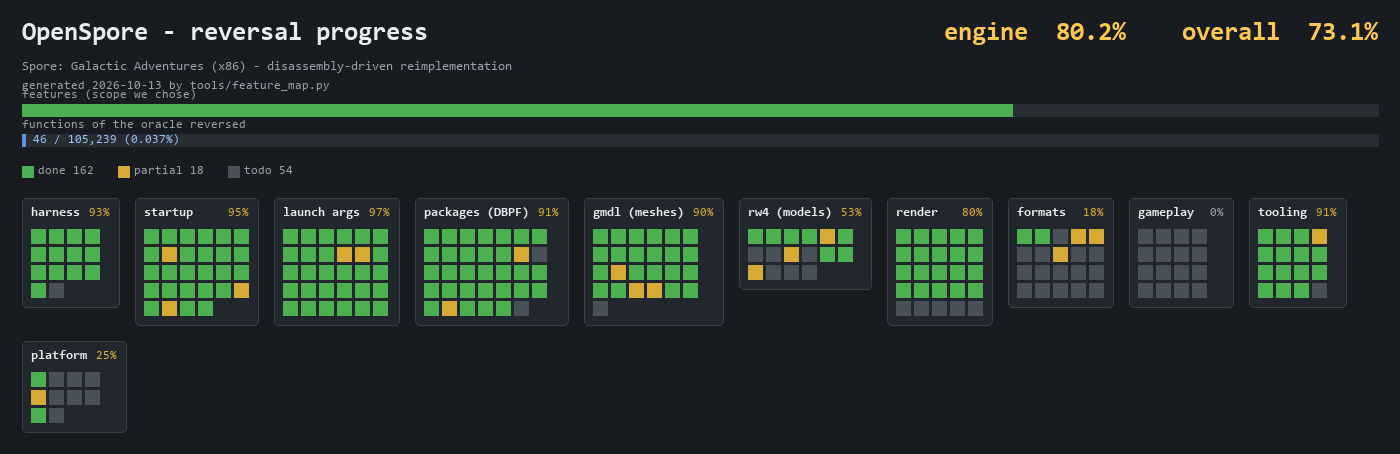
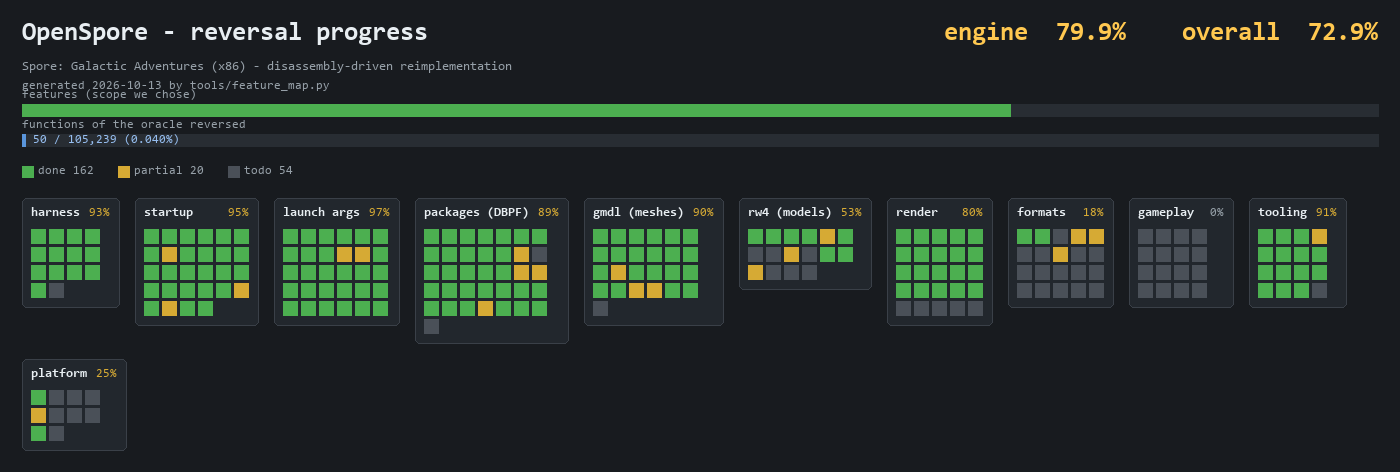
Content loading: resource manager + trigger configs, and resolve the group ids to real names
Found the layer above DBPF: the resource-manager getter 0x8de4b0 (global 0x1667aa0), and two
query entry points 0x686450 / 0x847780 that take a {group, type} descriptor. The game's configs
are 'trigger' resources (type 0x024a0e52), referenced at exactly three sites (0x5eb20e, 0x6a9fb0,
0x7cc3ed).

Decisive cross-check: resolving the group ids with FNV-1-lower over reg_file.txt gives REAL names -
0x658b0ab2 = 'properties', 0x9a06678c = 'ConfigManager', 0xd6396913 = 'SporeAppStates'. So run
loads the state list from a trigger resource of group 'SporeAppStates' (at 0xf48505), and the
config path loads 'properties' and 'ConfigManager'. That answers where the game reads its
config/state text.

New: analysis/content-loading.md; +4 named functions (50); feature map gains resource-manager and
content-loading rows; startup.md notes the SporeAppStates load.

diff --git a/analysis/content-loading.md b/analysis/content-loading.md
@@ -1,0 +1,64 @@
+# Content loading — how the original reads its resources
+
+Authority: disassembly of `refs/bins/ReleaseGA/SporeApp.exe.unpacked.exe`. This is the layer above
+DBPF/RefPack: how the *game* asks for a resource by (type, group, instance) and gets bytes.
+
+## The resource manager
+
+- **`0x008de4b0`** returns the resource manager singleton from **global `0x1667aa0`** (a one-line
+  getter; `0x008de4c0` is its setter). This is the object that owns the open packages and resolves
+  resource ids to data.
+- Resource queries go through the manager's vtable. `0x00847780` is the query used at a trigger
+  site: it calls `0x8de4b0`, then `[mgr]->vtable+0x58` with the descriptor, then (on success) reads
+  the resource and builds an object.
+
+## The resource descriptor is `{group, type, ...}`
+
+Sites build a small struct on the stack and pass it to a query:
+
+```
+5eb206:  mov [esp+0x28], 0x461227d      ; group
+5eb20e:  mov [esp+0x24], 0x24a0e52      ; type = trigger
+5eb21e:  call 0x686450                  ; query -> index, or 0xffffffff
+```
+
+```
+6a9fa8:  mov [esp+0x28], 0x658b0ab2     ; group
+6a9fb0:  mov [esp+0x2c], 0x24a0e52      ; type = trigger
+6a9fbc:  call 0x847780                  ; load
+```
+
+## `trigger` = type id `0x024A0E52`
+
+`upstream/SporeMaster3/data/reg_type.txt` lists `trigger 0x24a0e52`, and our own inventory found
+`trigger` resources in the Czech NameGeneration package under `0x024A0E52`. The game references that
+id as an immediate in exactly **three** places (via `tools/find_imm.py 0x024A0E52`):
+
+| site | function | what it does |
+|---|---|---|
+| `0x005eb20e` | ~`0x5eb1de` | builds `{group 0x461227d, trigger}` and calls `0x686450` (query -> index or -1) |
+| `0x006a9fb0` | ~`0x6a9f50` | builds `{group 0x658b0ab2, trigger}` and calls `0x847780` (load) |
+| `0x007cc3ed` | ~`0x7cc3d9` | stores `{0x9a06678c, trigger}` in a class at `[this+0x14]/[this+0x18]` and calls `0x7cc1c0` |
+
+So the game's scripts/configs are `trigger` resources, looked up by a **group id** (a hash). Resolving
+those group ids against our naming registry (`reg_file.txt`, 125,272 names, FNV-1-lower) gives real
+names — this is a decisive cross-check between the disassembly and the shipped data:
+
+| group id | resolved name | used at |
+|---|---|---|
+| `0x658b0ab2` | **`properties`** | the trigger load at `0x6a9fb0` — the game's **properties** config |
+| `0x9a06678c` | **`ConfigManager`** | `0x7cc3ed` — the **ConfigManager** |
+| `0xd6396913` | **`SporeAppStates`** | `run` at `0xf48505` (`[app+0x34]->vtable+0x1c`) — the app's **state list** |
+| `0x461227d` | (not in the registry) | `0x5eb20e` — another config group |
+
+So the startup path loads `SporeAppStates` (the state machine's states), and the config path loads
+`properties` and `ConfigManager` — all as `trigger` resources. That answers "where the game reads its
+config/state text": **through the resource manager (`0x8de4b0`), by `trigger` type + group id.**
+
+## Status
+
+- **Reversed:** the resource-manager getter (`0x8de4b0`/`0x1667aa0`), two query entry points
+  (`0x686450`, `0x847780`), the `{group, type}` descriptor shape, and that the game loads `trigger`
+  configs from three sites.
+- **Not yet reversed:** the query functions' internals, the group-name resolution for those three
+  sites, and where the loaded trigger text is parsed into game state.

diff --git a/analysis/functions.md b/analysis/functions.md
@@ -6,7 +6,7 @@
 > (functions we have actually reversed/named).
 
 **105,239** candidate function starts in `.text` (upper bound; see the tool's note) ·
-**46** functions reversed/named · **0.037%** coverage.
+**50** functions reversed/named · **0.040%** coverage.
 
 This is deliberately a HARD number, and it is small. It is not in tension with the feature
 map's high engine figure: the feature map measures the scope we chose (boot chain + asset
@@ -17,9 +17,9 @@ are barely touched. Both are true; together they are the honest picture.
 
 | area | count |
 |---|---|
-| startup | 23 |
+| startup | 24 |
+| packages | 12 |
 | rw4 | 11 |
-| packages | 9 |
 | core | 2 |
 | render | 1 |
 
@@ -32,7 +32,9 @@ are barely touched. Both are true; together they are the honest picture.
 | `0x0067dd20` | GetMgr8c4 | rw4 | getter for the model manager (0x15fd8c4) |
 | `0x0067dd30` | GetMgr8c8 | rw4 | getter for the second manager (0x15fd8c8) |
 | `0x0067df40` | SetMgr8c4 | rw4 | setter for the model manager; called from 0x7a71cb / 0x7a7efa |
+| `0x00686450` | ResourceFind | packages | resource query returning an index or 0xffffffff |
 | `0x00687bd0` | SetFsMode | startup | dev/ship dirs mode setup, called from AppRun |
+| `0x006a9f50` | LoadPropertiesConfig | startup | loads {group 'properties', trigger} at 0x6a9fb0 |
 | `0x006ad090` | TypeRegister | rw4 | hash-map insert keyed by type id |
 | `0x006b4eb0` | EarlyInit | startup | first call in AppRun; false -> bail |
 | `0x006c233d` | Rw4WriterCaller | rw4 | writer caller; pushes sentinel 0xcafed00d |
@@ -50,6 +52,7 @@ are barely touched. Both are true; together they are the honest picture.
 | `0x007e8a00` | CreateAppMode | startup | alloc 0x1f0 bytes, ctor 0x7e76e0; the app-mode/state host |
 | `0x007e93d0` | AppModeSetupPlugins | startup | vtable+0x18; -noPlugins/-safe gate -> 0x7e8810 |
 | `0x007eaae0` | AppModeShaderConfig | startup | vtable+0x20; -dumpShaders/-pix/-noScripts/-noEffectScripts... |
+| `0x00847780` | ResourceLoad | packages | load a resource via [mgr]->vtable+0x58 with a {group,type} descriptor |
 | `0x008482f0` | MainLoop | startup | THE main loop (window vtable+0x84): PeekMessageW -> WM_QUIT -> dispatch -> TranslateMessage -> DispatchMessageW; called from run 0xf48405 |
 | `0x00849b20` | WindowCtor | startup | ctor of the window/input class (vtable 0x141cc10) |
 | `0x00849bf0` | WindowCreate | startup | RegisterClass/CreateWindowEx; HWND at [obj+0x70] |
@@ -60,6 +63,7 @@ are barely touched. Both are true; together they are the honest picture.
 | `0x008d90b0` | DbpfValidateHeader | packages | DBPF header validator: magic/version/count/index-offset clauses |
 | `0x008d9a90` | DbpfLoadIndex | packages | index loader (vtable+0x90); kind mask parse |
 | `0x008da6f0` | DbpfResourceAccessor | packages | resource accessor (vtable+0x34) |
+| `0x008de4b0` | GetResourceManager | packages | returns the resource-manager singleton from global 0x1667aa0 |
 | `0x0092b570` | ArgLookup | startup | launch-key lookup helper (this,name,..) -> index or -1; skips a leading -/; used by 76 sites |
 | `0x0092c4e0` | RefPackReadBE | packages | big-endian size reader |
 | `0x0092c5b0` | RefPackLoop | packages | the RefPack command/copy loop |

diff --git a/analysis/features.md b/analysis/features.md
@@ -5,7 +5,7 @@
 > AND the picture `analysis/shots/reverse_map.png`. Both come from the same source, so they
 > cannot drift apart.
 
-**Engine reversal: 80.2%** | **Overall: 73.1%** | done 162 / partial 18 / todo 54 (234 features)
+**Engine reversal: 79.9%** | **Overall: 72.9%** | done 162 / partial 20 / todo 54 (236 features)
 
 **Legend**
 
@@ -24,7 +24,7 @@ The picture (`analysis/shots/reverse_map.png`) shows the same data as a grid of 
 | harness | **93%** | 13 | 0 | 1 |
 | startup | **95%** | 25 | 3 | 0 |
 | launch args | **97%** | 28 | 2 | 0 |
-| packages (DBPF) | **91%** | 30 | 2 | 2 |
+| packages (DBPF) | **89%** | 30 | 4 | 2 |
 | gmdl (meshes) | **90%** | 21 | 3 | 1 |
 | rw4 (models) | **53%** | 7 | 3 | 6 |
 | render | **80%** | 20 | 0 | 5 |
@@ -134,9 +134,9 @@ The picture (`analysis/shots/reverse_map.png`) shows the same data as a grid of 
 
 ---
 
-## packages (DBPF) — 91%
+## packages (DBPF) — 89%
 
-*30 done · 2 partial · 2 todo*
+*30 done · 4 partial · 2 todo*
 
 | | status | feature | notes |
 |:---:|---|---|---|
@@ -159,6 +159,8 @@ The picture (`analysis/shots/reverse_map.png`) shows the same data as a grid of 
 | ✅ | done | compression field | 0xFFFF = RefPack |
 | ✅ | done | flags field | 0x0001 always |
 | ✅ | done | resource read | pkg:-dump/-rec/-hdr |
+| 🚧 | partial | resource manager | getter 0x8de4b0 (global 0x1667aa0); queries 0x686450/0x847780 |
+| 🚧 | partial | content loading (trigger) | trigger type 0x24a0e52; groups resolved: properties, ConfigManager, SporeAppStates |
 | ✅ | done | refpack signature | &0x1FFF == 0x10FB |
 | ✅ | done | refpack BE size | 3- or 4-byte |
 | ✅ | done | refpack loop | 0x0092c5b0 |

diff --git a/analysis/startup.md b/analysis/startup.md
@@ -85,6 +85,10 @@ message loop; it initialises subsystems and dispatches through the AppMode objec
   | +0x20 | `0x007eaae0` | shader/script config: `-dumpShaders` 0x14142a8, `-dumpShadersForPIX` 0x1414284 / `-pix` 0x141427c, `-dumpFragmentShaders` 0x1414254, `-dumpDirectShaders` 0x1414230, `-noScripts` 0x141421c, `-noMaterialScripts` 0x14141f8, `-noEffectScripts` 0x14141d8 |
 - Other manager getters used: `0x67dc90/0x67dcb0/0x67dcd0/0x67dce0/0x67dcf0/0x67dda0`, `0x6a17e0`
   (a profiler/marker call), `0x951220`/`0x951230` (allocator pair), `0x5a7560`, `0x456230`.
+- **`run` loads the app's state list** at `0xf48505`: `[app+0x34]->vtable+0x1c` is called with the
+  group id **`0xd6396913` = `SporeAppStates`** (resolved via FNV-1-lower over `reg_file.txt`). So the
+  state machine's states come from a `trigger` resource of group `SporeAppStates` (see
+  `analysis/content-loading.md`).
 
 ## The main loop — FOUND: `0x008482f0` (window-class vtable `+0x84`)
 
